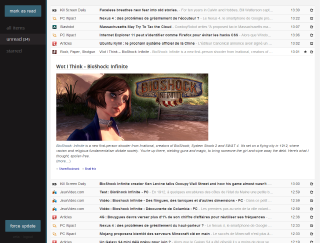
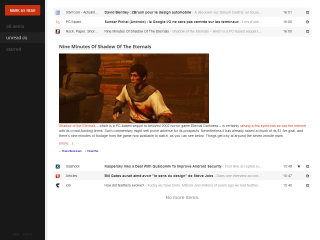
New thumbnails

diff --git a/README.md b/README.md
@@ -9,7 +9,7 @@ It's lightweight with a streamlined interface, supports most common feed standar
 
 Zeta draws inspiration from [Google Reader](http://en.wikipedia.org/wiki/Google_Reader), [Feedly](http://en.wikipedia.org/wiki/Feedly) and [selfoss](http://selfoss.aditu.de/).
 
-![Zeta Screenshot](https://github.com/Chman/Zeta/raw/master/thumbnail1.png) ![Zeta Screenshot](https://github.com/Chman/Zeta/raw/master/thumbnail2.png)
+![Zeta Screenshot](https://github.com/Chman/Zeta/raw/master/thumbnail1.png) ![Zeta Screenshot](https://github.com/Chman/Zeta/raw/master/thumbnail2.png) ![Zeta Screenshot](https://github.com/Chman/Zeta/raw/master/thumbnail3.png)
 
 Requirements
 ------------
